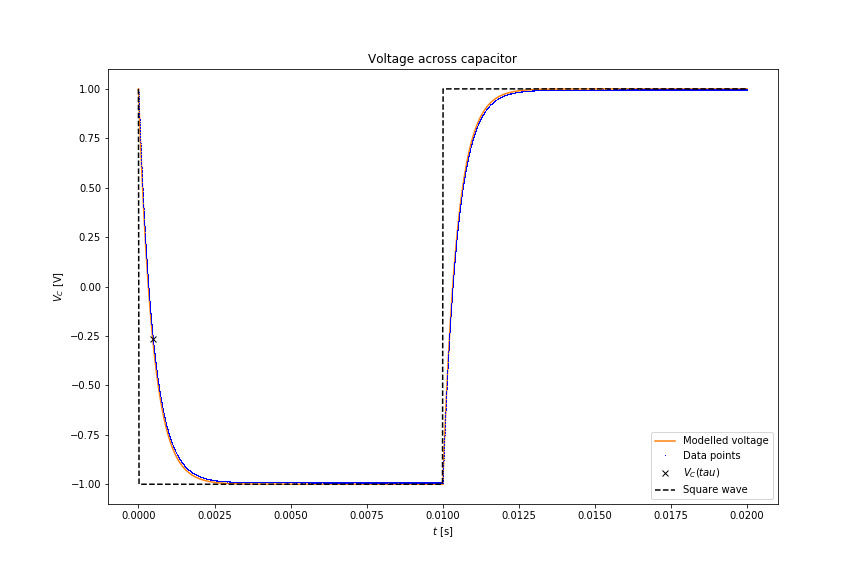
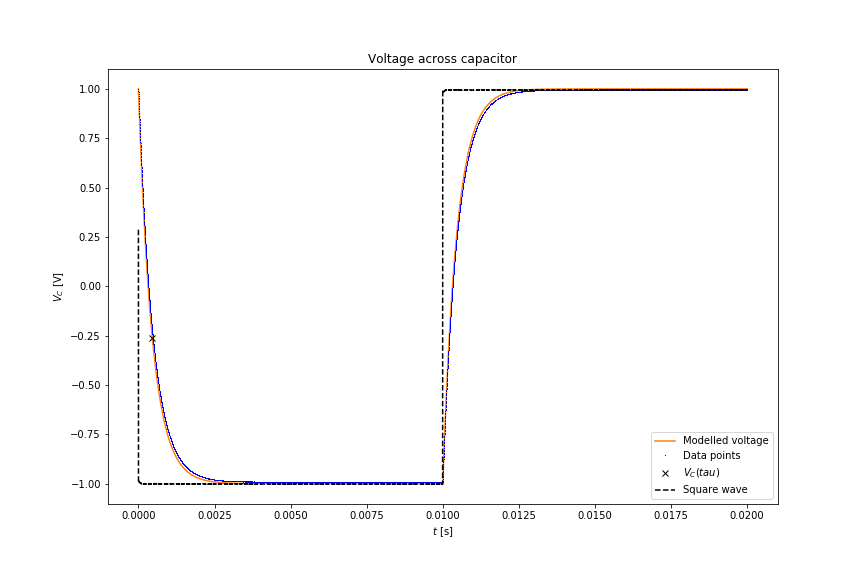
square wave

diff --git a/Python_kode.py b/Python_kode.py
@@ -162,19 +162,6 @@ def H_bp(omega):
 
 
 # =============================================================================
-# Square wave
-# =============================================================================
-"A piecewise function is a simple way to create a square wave."
-t_sqwave = np.linspace(0, time_charge*2, 1000)
-
-sqwave = np.piecewise(t_sqwave,                 # The parameter
-                      [t_sqwave > time_charge,  # The first condition
-                       t_sqwave < time_charge,  # The second condition
-                       t_sqwave == 0],          # The third condition
-                      [V0/2, -V0/2, V0/2]       # The corresponding values
-                      )
-
-# =============================================================================
 # Plot of data
 # =============================================================================
 if len(sys.argv) == 2:
@@ -209,7 +196,7 @@ if len(sys.argv) == 2:
         plt.plot(time_charge + t, V_C2(t), 'tab:orange')
         plt.plot(time - time[0], cap, 'b,', label='Data points')
         plt.plot(tau, V_C(tau), 'kx', label='$V_C(tau)$')
-        plt.plot(t_sqwave, sqwave, 'k--', label='Square wave')
+        plt.plot(time - time[0], sqwave_data, 'k--', label='Square wave')
         plt.xlabel('$t$ [s]')
         plt.ylabel('$V_C$ [V]')
         plt.legend()
